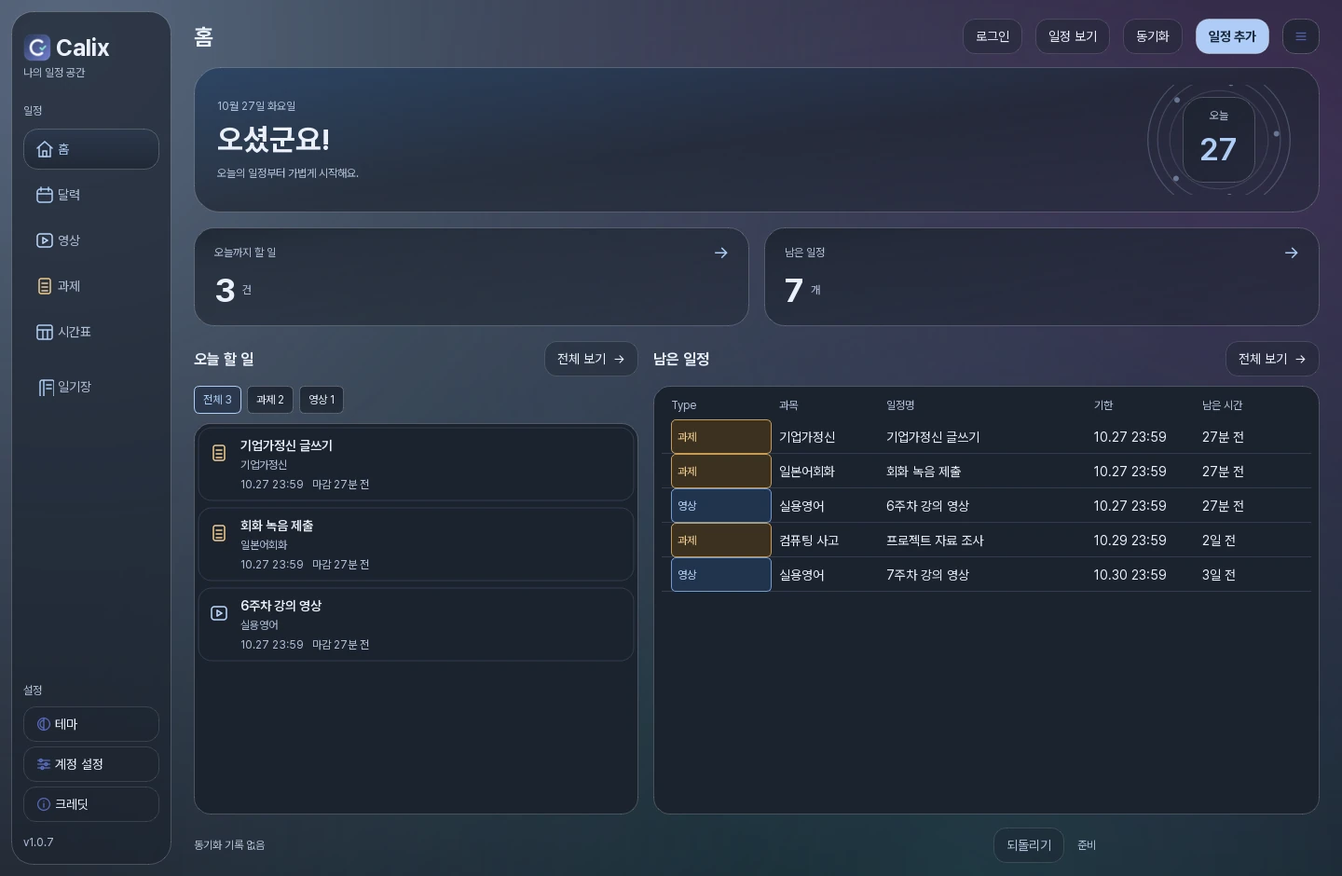
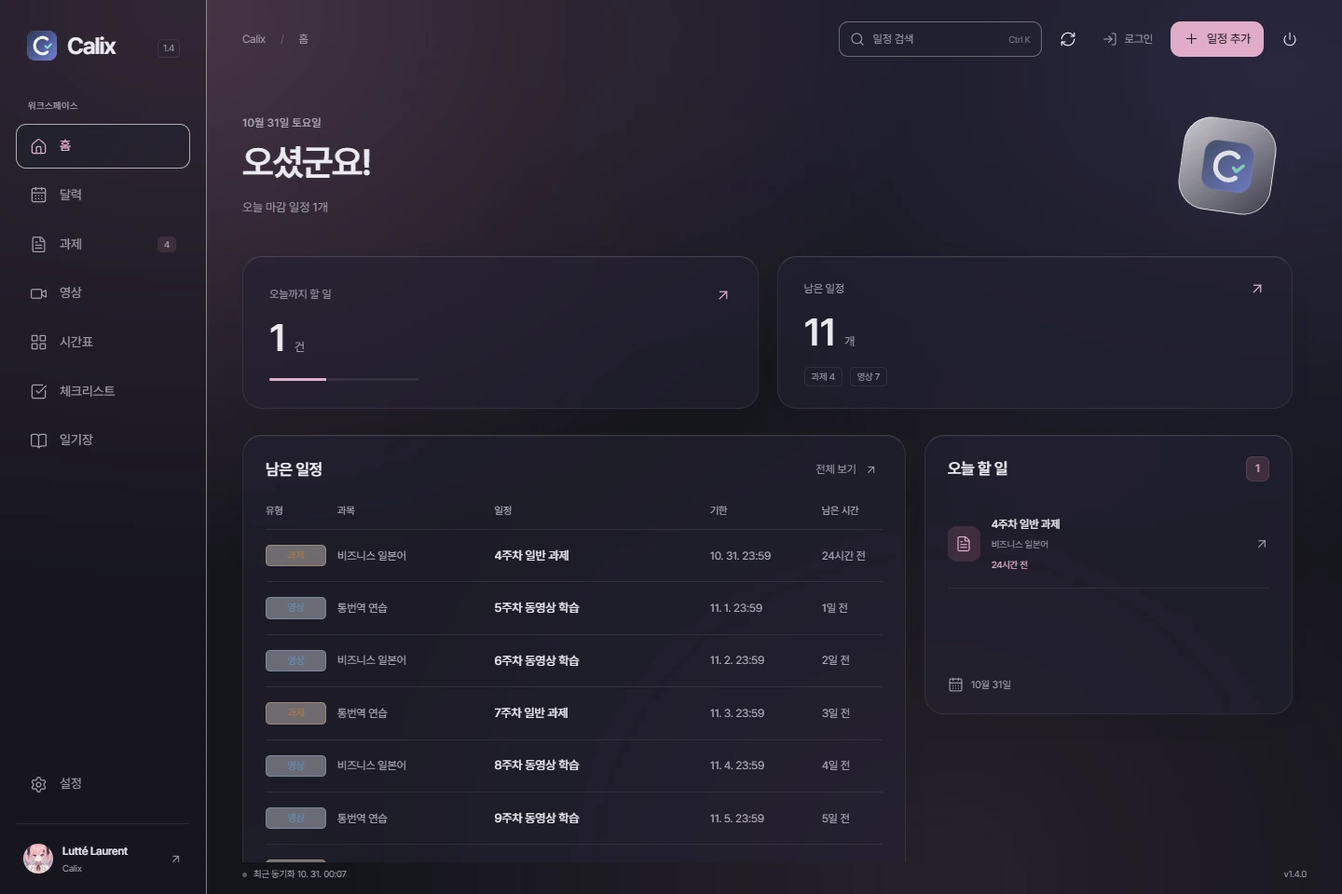
Update Calix 1.4 product images, downloads and user guide

diff --git a/calix/guide/index.html b/calix/guide/index.html
@@ -1,68 +1,45 @@
 <!doctype html>
 <html lang="ko">
 <head>
-  <meta charset="utf-8">
-  <meta name="viewport" content="width=device-width,initial-scale=1">
-  <meta name="theme-color" content="#fff3f7">
-  <meta name="description" content="Calix 사용 설명서. 실행, 동기화, 일정 편집, 시간표, 일기, 백업 절차.">
+  <meta charset="utf-8"><meta name="viewport" content="width=device-width,initial-scale=1">
+  <meta name="theme-color" content="#fff3f7"><meta name="description" content="Calix 1.4 사용 설명서. 로그인, 일정, 체크리스트, 시간표, 일기, 백업.">
   <link rel="canonical" href="https://luttechan.github.io/calix/guide/">
   <link rel="icon" href="../assets/calix.svg" type="image/svg+xml">
-  <link rel="stylesheet" href="../calix.css">
-  <link rel="stylesheet" href="guide.css">
+  <link rel="stylesheet" href="../calix.css"><link rel="stylesheet" href="guide.css">
   <title>사용 설명서 — Calix</title>
 <link rel="stylesheet" href="../../playlist-nav.css?v=20261030-r2">
 </head>
 <body class="manual">
   <a class="skip" href="#main">본문으로</a>
-  <header class="site-header"><nav class="nav" aria-label="주요 메뉴">
-    <a class="brand" href="../" aria-label="Calix 홈"><img src="../assets/calix.svg" width="29" height="29" alt=""><span>Calix</span></a>
-    <div class="guide-nav"><a href="../">제품 소개</a><a href="./" aria-current="page">사용 설명서</a><a class="nav-download" href="https://github.com/luttechan/Calix/releases/latest">다운로드</a></div>
-  <a class="playlist-nav-link" href="../../playlist.html">♫ Playlist</a></nav></header>
+  <header class="site-header"><nav class="nav" aria-label="주요 메뉴"><a class="brand" href="../"><img src="../assets/calix.svg" width="29" height="29" alt=""><span>Calix</span></a><div class="guide-nav"><a href="../">제품 소개</a><a href="./" aria-current="page">사용 설명서</a><a class="nav-download" href="https://github.com/luttechan/Calix/releases/latest">다운로드</a></div><a class="playlist-nav-link" href="../../playlist.html">♫ Playlist</a></nav></header>
   <div class="manual-layout">
     <aside class="contents"><nav aria-label="설명서 목차"><p>목차</p><a href="#start">01 실행</a><a href="#sync">02 로그인과 동기화</a><a href="#calendar">03 일정</a><a href="#checklist">04 체크리스트</a><a href="#timetable">05 시간표</a><a href="#diary">06 일기</a><a href="#settings">07 설정과 백업</a></nav></aside>
     <main id="main" class="manual-content">
-      <div class="manual-title"><p class="eyebrow">Calix 1.2</p><h1>사용 설명서</h1><p>Windows 10 / 11, 64비트</p></div>
-      <section id="start"><h2><span>01</span> 실행</h2><ol><li>설치 파일을 실행합니다. ZIP은 압축 해제 후 <code>Calix.exe</code>를 실행합니다.</li><li>왼쪽 아래 <strong>종료</strong>를 누릅니다. 미저장 내용이 있으면 저장 여부를 선택합니다.</li></ol></section>
+      <div class="manual-title"><p class="eyebrow">Calix 1.4.0</p><h1>사용 설명서</h1><p>Windows 10 / 11, 64비트</p></div>
+      <section id="start"><h2><span>01</span> 실행</h2><ol><li>Setup을 실행해 설치합니다. ZIP은 압축 해제 후 <code>Calix.exe</code> 또는 <code>run.bat</code>을 실행합니다.</li><li>창의 X 버튼은 트레이로 숨깁니다. 종료하려면 오른쪽 위 전원 버튼 또는 트레이의 <strong>종료</strong>를 선택합니다.</li><li><strong>저장하고 종료</strong>를 누르면 작성 중인 일정과 일기를 저장한 뒤 종료합니다.</li></ol></section>
       <section id="sync"><h2><span>02</span> 로그인과 동기화</h2>
-        <figure><div class="screen-scroll" tabindex="0" aria-label="홈 화면. 좌우 방향키로 화면 이동"><div class="annotated-screen">
-          <img src="../assets/home-pink.webp" width="1440" height="940" alt="Calix 홈 화면의 오른쪽 위에 로그인, 동기화, 메뉴 버튼이 있습니다." decoding="async">
-          <svg class="annotations" viewBox="0 0 1440 940" aria-hidden="true"><defs><marker id="home-arrow" markerWidth="7" markerHeight="7" refX="5" refY="3" orient="auto"><path d="M0 0 6 3 0 6Z"/></marker></defs><path d="M1065 103V65" marker-end="url(#home-arrow)"/><path d="M1237 103V65" marker-end="url(#home-arrow)"/><path d="M1396 103V65" marker-end="url(#home-arrow)"/><g><circle cx="1065" cy="125" r="21"/><text x="1065" y="125">1</text><circle cx="1237" cy="125" r="21"/><text x="1237" y="125">2</text><circle cx="1396" cy="125" r="21"/><text x="1396" y="125">3</text></g></svg>
-        </div></div><figcaption>홈 화면</figcaption></figure>
-        <ol class="numbered"><li><strong>로그인</strong>을 누르고 학교 계정으로 로그인합니다.</li><li><strong>동기화</strong>를 눌러 과제와 영상을 불러옵니다.</li><li><strong>메뉴</strong>에서 설정과 백업 항목을 엽니다.</li></ol>
-        <p class="note">로그인 완료 시 버튼이 ‘로그아웃’으로 변경됩니다.</p>
+        <figure><div class="screen-scroll" tabindex="0" aria-label="홈 화면"><div class="annotated-screen"><img src="../assets/home-pink.webp?v=140" width="1440" height="960" alt="Calix 1.4 홈 화면" loading="lazy" decoding="async"></div></div><figcaption>홈</figcaption></figure>
+        <ol><li>오른쪽 위 <strong>로그인</strong>에서 학교 계정으로 로그인하고 <strong>로그인 완료</strong>를 누릅니다.</li><li>오른쪽 위 원형 화살표 <strong>동기화</strong> 버튼으로 과제와 영상을 갱신합니다.</li></ol><p class="note">학교 일정의 제출 상태와 시청 기록은 동기화로 확인합니다.</p>
       </section>
       <section id="calendar"><h2><span>03</span> 일정</h2>
-        <figure><div class="screen-scroll" tabindex="0" aria-label="달력 화면. 좌우 방향키로 화면 이동"><div class="annotated-screen">
-          <img src="../assets/calendar.webp" width="1440" height="940" alt="달력 위의 이전 달과 다음 달 버튼, 날짜 안의 일정 유형, 오른쪽 위 상세 일정 버튼." loading="lazy" decoding="async">
-          <svg class="annotations" viewBox="0 0 1440 940" aria-hidden="true"><defs><marker id="calendar-arrow" markerWidth="7" markerHeight="7" refX="5" refY="3" orient="auto"><path d="M0 0 6 3 0 6Z"/></marker></defs><path d="M351 183 361 165" marker-end="url(#calendar-arrow)"/><path d="M600 703 588 730" marker-end="url(#calendar-arrow)"/><path d="M1314 191 1363 165" marker-end="url(#calendar-arrow)"/><g><circle cx="343" cy="205" r="21"/><text x="343" y="205">1</text><circle cx="608" cy="680" r="21"/><text x="608" y="680">2</text><circle cx="1297" cy="207" r="21"/><text x="1297" y="207">3</text></g></svg>
-        </div></div><figcaption>달력 화면</figcaption></figure>
-        <ol class="numbered"><li><strong>‹ / ›</strong>는 이전 달과 다음 달, <strong>오늘</strong>은 현재 날짜로 이동합니다.</li><li>날짜 안의 <strong>과제 / 영상 / 사용자 유형</strong>을 누르면 상세 창이 열립니다.</li><li><strong>상세 일정</strong>을 누르면 선택한 날짜의 목록이 열립니다.</li></ol>
-        <dl class="procedures"><div><dt>일정 추가</dt><dd><strong>일정 추가</strong> 또는 날짜 두 번 클릭. 이름, 유형, 기한 입력 후 저장.</dd></div><div><dt>이름과 메모 수정</dt><dd>상세 창에서 이름, 유형, 메모 수정 후 <strong>저장</strong>. 여러 건이면 강의, 유형, 일정명으로 선택.</dd></div><div><dt>학교 원본 확인</dt><dd>상세 창의 <strong>원본 열기</strong> 선택.</dd></div><div><dt>사용자 유형 등록</dt><dd>메뉴 → 설정 → 일정 유형. 이름과 색상 지정.</dd></div></dl>
-        <p class="note">학교 일정의 이름, 유형, 메모 수정값은 동기화 후에도 유지됩니다.</p>
+        <figure><div class="screen-scroll" tabindex="0" aria-label="달력 화면"><div class="annotated-screen"><img src="../assets/calendar.webp?v=140" width="1440" height="960" alt="Calix 1.4 달력 화면" loading="lazy" decoding="async"></div></div><figcaption>달력</figcaption></figure>
+        <dl class="procedures"><div><dt>상세 확인</dt><dd>날짜 안의 일정 또는 하단 목록을 한 번 클릭합니다. <strong>+N개</strong>는 해당 날짜의 전체 목록을 표시합니다.</dd></div><div><dt>일정 추가</dt><dd><strong>일정 추가</strong> 또는 날짜 숫자를 누릅니다. 이름, 유형, 과목, 기한, 메모를 입력합니다.</dd></div><div><dt>이름과 메모 수정</dt><dd>상세 창에서 편집 후 <strong>저장</strong>을 누릅니다. 학교 일정의 수정값은 동기화 후에도 유지됩니다.</dd></div><div><dt>학교 원본</dt><dd>상세 창의 <strong>원본 열기</strong>를 누릅니다.</dd></div><div><dt>일정 검색</dt><dd>상단 검색란 또는 <kbd>Ctrl K</kbd>를 사용합니다.</dd></div></dl>
+        <p class="note">완료한 일정은 흐리게 표시됩니다. 기한이 지난 미제출 과제는 ‘미완료’로 표시됩니다.</p>
       </section>
       <section id="checklist"><h2><span>04</span> 체크리스트</h2>
-        <ol class="numbered"><li><strong>과제 불러오기 / 영상 불러오기</strong>를 체크하면 기존 수집 자료를 표시합니다.</li><li>셀을 클릭해 이름, 기한, 분류, 역할, 교수, 상태, 비고를 편집합니다. 기한은 직접 입력하거나 달력에서 선택합니다. 분류, 역할, 교수는 목록 검색 또는 직접 입력을 지원합니다. 할 일 왼쪽 체크박스로 완료 처리합니다.</li><li>열 제목을 눌러 오름차순 / 내림차순으로 정렬합니다.</li><li><strong>+ 섹션</strong>으로 이름을 지정합니다. 기본 섹션 포함 최대 5개입니다.</li><li><strong>상태 편집</strong>에서 상태 이름과 색상을 변경하거나 추가합니다.</li></ol>
-        <p>목록 선택은 클릭 또는 방향키와 Enter. 직접 입력 후 Enter로 저장합니다. 취소는 Esc.</p>
-        <p class="note">체크리스트 진행 상태는 학교의 제출 상태 및 시청 기록과 별도로 저장됩니다. 삭제한 항목은 휴지통에서 복원할 수 있습니다.</p>
+        <figure><div class="screen-scroll" tabindex="0" aria-label="체크리스트 화면"><div class="annotated-screen"><img src="../assets/checklist.webp?v=140" width="1440" height="960" alt="Calix 1.4 체크리스트 화면" loading="lazy" decoding="async"></div></div><figcaption>체크리스트</figcaption></figure>
+        <ol><li>달력의 상세 창에서 <strong>체크리스트에 추가</strong>를 누릅니다. 여러 건은 체크리스트의 <strong>일괄 가져오기</strong>에서 선택합니다.</li><li><strong>할 일 추가</strong>로 개인 할 일을 만듭니다. 각 셀에서 기한, 분류, 역할, 교수, 상태, 비고를 편집합니다.</li><li>열 제목을 눌러 정렬합니다. <strong>섹션 추가</strong>는 기본 섹션을 포함해 최대 5개입니다.</li><li><strong>상태 편집</strong>에서 이름과 색상을 지정합니다. 행 오른쪽 삭제 버튼은 확인 후 해당 할 일을 삭제합니다.</li></ol><p class="note">체크리스트의 완료 표시는 학교의 제출 상태 및 시청 기록과 별도입니다.</p>
       </section>
       <section id="timetable"><h2><span>05</span> 시간표</h2>
-        <figure><div class="screen-scroll" tabindex="0" aria-label="시간표 화면. 좌우 방향키로 화면 이동"><div class="annotated-screen">
-          <img src="../assets/timetable.webp" width="1440" height="940" alt="시간표 오른쪽 위의 수업 추가 버튼과 오른쪽 수업 색상 설정." loading="lazy" decoding="async">
-          <svg class="annotations" viewBox="0 0 1440 940" aria-hidden="true"><defs><marker id="timetable-arrow" markerWidth="7" markerHeight="7" refX="5" refY="3" orient="auto"><path d="M0 0 6 3 0 6Z"/></marker></defs><path d="M1377 154V118" marker-end="url(#timetable-arrow)"/><path d="M1250 538V477" marker-end="url(#timetable-arrow)"/><g><circle cx="1377" cy="177" r="21"/><text x="1377" y="177">1</text><circle cx="1250" cy="560" r="21"/><text x="1250" y="560">2</text></g></svg>
-        </div></div><figcaption>시간표 화면</figcaption></figure>
-        <ol class="numbered"><li><strong>수업 추가</strong>에서 과목, 요일, 시간, 교수, 강의실을 입력합니다.</li><li>수업을 선택한 뒤 오른쪽 <strong>수업 색상</strong>을 지정합니다.</li><li><strong>공강 설정</strong>에서 요일을 선택합니다. 해제하면 기존 수업을 다시 표시합니다.</li></ol>
-        <p>수업을 끌어 시간을 이동합니다. 세부 정보는 수업 선택 후 <strong>수정</strong>에서 변경합니다.</p>
+        <figure><div class="screen-scroll" tabindex="0" aria-label="시간표 화면"><div class="annotated-screen"><img src="../assets/timetable.webp?v=140" width="1440" height="960" alt="Calix 1.4 시간표 화면" loading="lazy" decoding="async"></div></div><figcaption>시간표</figcaption></figure>
+        <ol><li><strong>수업 추가</strong>에서 과목, 요일, 시간, 교수, 강의실, 색상을 지정합니다.</li><li>수업을 한 번 클릭해 수정합니다. <strong>공강 설정</strong>에서 요일을 선택하면 해당 열이 공강으로 표시됩니다.</li></ol><p>공강을 해제하면 기존 수업이 다시 표시됩니다. 각 수업에는 남은 과제와 영상 수가 표시됩니다.</p>
       </section>
       <section id="diary"><h2><span>06</span> 일기</h2>
-        <figure><div class="screen-scroll" tabindex="0" aria-label="일기장 화면. 좌우 방향키로 화면 이동"><div class="annotated-screen">
-          <img src="../assets/diary.webp" width="1440" height="940" alt="일기장의 일반 일기와 비밀 일기 선택, 일기 쓰기 버튼, 본문 위 서식 도구." loading="lazy" decoding="async">
-          <svg class="annotations" viewBox="0 0 1440 940" aria-hidden="true"><defs><marker id="diary-arrow" markerWidth="7" markerHeight="7" refX="5" refY="3" orient="auto"><path d="M0 0 6 3 0 6Z"/></marker></defs><path d="M576 90H385" marker-end="url(#diary-arrow)"/><path d="M1377 144V118" marker-end="url(#diary-arrow)"/><path d="M1076 265H806" marker-end="url(#diary-arrow)"/><g><circle cx="600" cy="90" r="21"/><text x="600" y="90">1</text><circle cx="1377" cy="166" r="21"/><text x="1377" y="166">2</text><circle cx="1100" cy="265" r="21"/><text x="1100" y="265">3</text></g></svg>
-        </div></div><figcaption>일기장 화면</figcaption></figure>
-        <ol class="numbered"><li><strong>일반 일기</strong> 또는 <strong>비밀 일기</strong>를 선택합니다.</li><li><strong>일기 쓰기</strong>에서 제목과 내용을 입력합니다. 내용은 자동 저장됩니다.</li><li>글자를 선택한 뒤 <strong>B / I / U / S / 글자색</strong>으로 서식을 지정합니다.</li></ol>
-        <p class="note">비밀 일기 암호는 12자 이상입니다. 암호 분실 시 복구할 수 없습니다. 일반 일기는 암호화되지 않습니다.</p>
+        <figure><div class="screen-scroll" tabindex="0" aria-label="일기장 화면"><div class="annotated-screen"><img src="../assets/diary.webp?v=140" width="1440" height="960" alt="Calix 1.4 일기장 화면" loading="lazy" decoding="async"></div></div><figcaption>일기장</figcaption></figure>
+        <ol><li><strong>일반 일기</strong> 또는 <strong>비밀 일기</strong>에서 <strong>새 일기</strong>를 누릅니다.</li><li>제목과 본문을 입력합니다. 글자 선택 후 굵게, 기울임, 밑줄, 색상을 지정합니다.</li><li><strong>저장</strong>을 누릅니다. 다른 메뉴로 이동하거나 저장하고 종료할 때도 작성 내용을 저장합니다.</li></ol><p class="note">비밀 일기 암호는 12자 이상입니다. 암호 분실 시 복구할 수 없습니다. 일반 일기는 암호화되지 않습니다.</p>
       </section>
-      <section id="settings"><h2><span>07</span> 설정과 백업</h2><dl class="procedures"><div><dt>업데이트</dt><dd>메뉴 → 도움말 → 업데이트 확인 → 다운로드 → 설치하고 종료.</dd></div><div><dt>테마</dt><dd>왼쪽 아래 <strong>테마</strong>에서 테마와 글꼴 선택.</dd></div><div><dt>공휴일</dt><dd>메뉴 → 설정 → 공휴일. 표시 여부 변경 또는 임시공휴일 추가.</dd></div><div><dt>특수 일정</dt><dd>메뉴 → 설정 → 기타 → 특수 일정 등록.</dd></div><div><dt>저장 계정 삭제</dt><dd>메뉴 → 설정 → 저장 계정 삭제.</dd></div><div><dt>자료 백업과 복원</dt><dd>메뉴 → 파일 → 개인 자료 백업 / 백업 복원.</dd></div></dl><p class="note">백업에는 체크리스트, 공강 설정, 일반 일기와 암호화된 비밀 일기가 포함됩니다. 로그인 암호와 쿠키는 포함되지 않습니다.</p></section>
-      <p class="manual-meta">기준 버전 1.2 revision 4 / 화면의 일정은 예시입니다.</p>
+      <section id="settings"><h2><span>07</span> 설정과 백업</h2><dl class="procedures"><div><dt>테마와 글꼴</dt><dd><strong>설정 → 화면</strong>에서 테마, 글래스, 글꼴을 선택합니다.</dd></div><div><dt>유형과 공휴일</dt><dd><strong>설정 → 일정</strong>에서 사용자 유형과 공휴일을 등록합니다.</dd></div><div><dt>특수 일정</dt><dd><strong>설정 → 일정 → 특수 일정 등록</strong>에서 가톨릭 일정 또는 ???를 선택합니다.</dd></div><div><dt>업데이트</dt><dd><strong>설정 → 앱 관리 → 업데이트 확인</strong>에서 다운로드 후 설치하고 종료합니다.</dd></div><div><dt>백업과 복원</dt><dd><strong>설정 → 앱 관리</strong>에서 개인 자료 백업 또는 백업 복원을 선택합니다. 복원 전 현재 자료의 복구용 백업을 자동 생성합니다.</dd></div></dl><p class="note">백업에는 체크리스트, 시간표, 일반 일기와 암호화된 비밀 일기가 포함됩니다. 로그인 쿠키는 포함되지 않습니다.</p></section>
+      <p class="manual-meta">기준 버전 1.4.0 / 화면의 일정은 예시입니다.</p>
     </main>
   </div>
   <footer><div class="footer-main"><a class="brand" href="../">Calix</a><div><a href="https://github.com/luttechan/Calix">GitHub</a><a href="../../">Lutté Laurent</a></div></div></footer>

diff --git a/calix/index.html b/calix/index.html
@@ -9,7 +9,7 @@
   <meta property="og:description" content="The Smart Way to Ghost Your Absences.">
   <meta property="og:type" content="website">
   <meta property="og:url" content="https://luttechan.github.io/calix/">
-  <meta property="og:image" content="https://luttechan.github.io/calix/assets/home-pink.webp">
+  <meta property="og:image" content="https://luttechan.github.io/calix/assets/home-pink.webp?v=140">
   <link rel="canonical" href="https://luttechan.github.io/calix/">
   <link rel="icon" type="image/svg+xml" href="assets/calix.svg">
   <link rel="stylesheet" href="calix.css">
@@ -33,25 +33,25 @@
         <p class="eyebrow">부산외대 Canvas 연동</p>
         <h1 id="hero-title">Calix<span>.</span></h1>
         <p class="hero-description">과제와 영상을 한눈에.</p>
-        <a class="button button-dark" data-download href="https://github.com/luttechan/Calix/releases/download/v1.2.0-r4/Calix-1.2.0-r4-Setup-x64.exe"><svg viewBox="0 0 20 20" aria-hidden="true"><path d="M10 2v11m-4-4 4 4 4-4M3 14v3h14v-3"></path></svg>Windows용 다운로드</a>
-        <p class="platform">Windows 10 / 11 <span aria-hidden="true">／</span> v1.2.0-r4</p>
+        <a class="button button-dark" data-download href="https://github.com/luttechan/Calix/releases/download/v1.4.0/Calix-1.4.0-Setup-x64.exe"><svg viewBox="0 0 20 20" aria-hidden="true"><path d="M10 2v11m-4-4 4 4 4-4M3 14v3h14v-3"></path></svg>Windows용 다운로드</a>
+        <p class="platform">Windows 10 / 11 <span aria-hidden="true">／</span> v1.4.0</p>
         <p class="visually-hidden">The Smart Way to Ghost Your Absences.</p>
       </div>
       <div class="hero-product" data-parallax>
-        <div class="product-frame"><img src="assets/home-pink.webp" alt="Calix 홈 화면. 오늘 할 일과 남은 일정을 함께 확인합니다." width="1440" height="940" fetchpriority="high" decoding="async"></div>
+        <div class="product-frame"><img src="assets/home-pink.webp?v=140" alt="Calix 홈 화면. 오늘 할 일과 남은 일정을 함께 확인합니다." width="1440" height="960" fetchpriority="high" decoding="async"></div>
       </div>
       <div class="hero-bottom"><a href="#calendar" aria-label="일정 기능 살펴보기"><svg viewBox="0 0 24 24" aria-hidden="true"><path d="M12 4v16m-6-6 6 6 6-6"></path></svg></a></div>
     </section>
 
     <section class="calendar-section section" id="calendar" aria-labelledby="calendar-title">
       <div class="section-heading reveal"><p class="eyebrow">일정</p><h2 id="calendar-title">다가오는 마감부터.</h2><p>Canvas와 동기화.<br>내 일정은 원하는 이름과 색으로.</p></div>
-      <div class="calendar-stage reveal"><div class="stage-orbit" aria-hidden="true"></div><div class="product-frame"><img src="assets/calendar.webp" alt="유형별 색상과 공휴일이 표시된 Calix 달력 예시" width="1440" height="940" loading="lazy" decoding="async"></div></div>
+      <div class="calendar-stage reveal"><div class="stage-orbit" aria-hidden="true"></div><div class="product-frame"><img src="assets/calendar.webp?v=140" alt="유형별 색상과 공휴일이 표시된 Calix 달력 예시" width="1440" height="960" loading="lazy" decoding="async"></div></div>
       <div class="feature-line reveal"><span><i class="type-chip assignment"></i>과제</span><span><i class="type-chip movie"></i>영상</span><span><i class="type-chip custom"></i>직접 만든 유형</span><span class="feature-note">이름과 메모는 동기화 후에도 그대로.</span></div>
     </section>
 
     <section class="timetable-section section" aria-labelledby="timetable-title">
       <div class="timetable-copy reveal"><p class="eyebrow">시간표</p><h2 id="timetable-title">이번 주를<br> 한눈에.</h2><p>강의실, 교수님,<br> 남은 과제와 영상까지.</p></div>
-      <div class="timetable-image reveal"><div class="product-frame"><img src="assets/timetable.webp" alt="수업별 색상과 강의실, 남은 과제가 표시된 시간표 예시" width="1440" height="940" loading="lazy" decoding="async"></div></div>
+      <div class="timetable-image reveal"><div class="product-frame"><img src="assets/timetable.webp?v=140" alt="수업별 색상과 강의실, 남은 과제가 표시된 시간표 예시" width="1440" height="960" loading="lazy" decoding="async"></div></div>
     </section>
 
     <section class="theme-section section" id="themes" aria-labelledby="theme-title">
@@ -63,21 +63,24 @@
         <button type="button" data-theme="purple" class="swatch" aria-pressed="false"><i style="--swatch:#c0a9e3"></i><span>퍼플</span></button>
         <button type="button" data-theme="dark" class="swatch" aria-pressed="false"><i style="--swatch:#3d3b4a"></i><span>다크</span></button>
       </div>
-      <div class="theme-stage reveal" data-active-theme="pink"><div class="theme-aura" aria-hidden="true"></div><div class="product-frame"><img id="theme-preview" src="assets/home-pink.webp" alt="Calix 핑크 테마" width="1440" height="940" loading="lazy" decoding="async"></div></div>
+      <div class="theme-stage reveal" data-active-theme="pink"><div class="theme-aura" aria-hidden="true"></div><div class="product-frame"><img id="theme-preview" src="assets/home-pink.webp?v=140" alt="Calix 핑크 테마" width="1440" height="960" loading="lazy" decoding="async"></div></div>
       <p class="theme-status visually-hidden" aria-live="polite"></p>
     </section>
 
     <section class="diary-section section" aria-labelledby="diary-title">
-      <div class="diary-image reveal"><div class="product-frame"><img src="assets/diary.webp" alt="글자 서식을 지정할 수 있는 Calix 일반 일기 예시" width="1440" height="940" loading="lazy" decoding="async"></div></div>
+      <div class="diary-image reveal"><div class="product-frame"><img src="assets/diary.webp?v=140" alt="글자 서식을 지정할 수 있는 Calix 일반 일기 예시" width="1440" height="960" loading="lazy" decoding="async"></div></div>
       <div class="diary-copy reveal"><p class="eyebrow">일기</p><h2 id="diary-title">일반 일기와<br>비밀 일기.</h2><p>굵게, 기울임, 글자색.<br>비밀 일기는 암호로 보호.</p><p class="small-note">암호를 잊으면 복구할 수 없습니다.</p></div>
     </section>
+
+    <section class="section" aria-labelledby="startup-title"><div class="section-heading reveal"><p class="eyebrow">Calix 1.4</p><h2 id="startup-title">새로운 시작.</h2></div><div class="product-frame reveal"><img src="assets/startup.webp?v=140" alt="Calix 필기체 시작 화면" width="1200" height="800" loading="lazy" decoding="async"></div></section>
 
     <section class="download-section" id="download" aria-labelledby="download-title">
       <div class="download-glow" aria-hidden="true"></div>
       <img src="assets/calix.svg" class="download-icon reveal" width="94" height="94" alt="">
-      <div class="reveal"><h2 id="download-title">Calix 다운로드.</h2><p>과제, 영상, 일정을 한곳에.</p><a class="button button-dark" data-download href="https://github.com/luttechan/Calix/releases/download/v1.2.0-r4/Calix-1.2.0-r4-Setup-x64.exe"><svg viewBox="0 0 20 20" aria-hidden="true"><path d="M10 2v11m-4-4 4 4 4-4M3 14v3h14v-3"></path></svg>Windows용 다운로드</a><p class="platform">Windows 10 / 11, 64비트 <span aria-hidden="true">／</span> v1.2.0-r4</p><a class="release-link" href="https://github.com/luttechan/Calix/releases">업데이트 내역 <span aria-hidden="true">↗</span></a></div>
+      <div class="reveal"><h2 id="download-title">Calix 다운로드.</h2><p>과제, 영상, 일정을 한곳에.</p><a class="button button-dark" data-download href="https://github.com/luttechan/Calix/releases/download/v1.4.0/Calix-1.4.0-Setup-x64.exe"><svg viewBox="0 0 20 20" aria-hidden="true"><path d="M10 2v11m-4-4 4 4 4-4M3 14v3h14v-3"></path></svg>Windows용 다운로드</a><p class="platform">Windows 10 / 11, 64비트 <span aria-hidden="true">／</span> v1.4.0</p><a class="release-link" href="https://github.com/luttechan/Calix/releases">업데이트 내역 <span aria-hidden="true">↗</span></a></div>
     </section>
   </main>
   <footer><div class="footer-main"><a class="brand" href="./">Calix</a><div><a href="guide/">사용 설명서</a><a href="https://github.com/luttechan/Calix">GitHub</a><a href="../">Lutté Laurent</a></div></div><div class="footer-fine"><span>© 2026 Lutté Laurent</span><span>화면의 일정은 예시입니다.</span></div></footer>
 </body>
 </html>
+

diff --git a/calix/calix.js b/calix/calix.js
@@ -13,7 +13,7 @@ const preview=document.querySelector('#theme-preview');
 const themeLabels={pink:'핑크',sky:'스카이블루',mint:'민트',purple:'퍼플',dark:'다크'};
 document.querySelectorAll('[data-theme]').forEach(button=>button.addEventListener('click',async()=>{
   const theme=button.dataset.theme;const request=++themeRequest;
-  const image=new Image();image.src=`assets/home-${theme}.webp`;
+  const image=new Image();image.src=`assets/home-${theme}.webp?v=140`;
   try{await image.decode();}catch{return;}
   if(request!==themeRequest)return;
   document.querySelectorAll('[data-theme]').forEach(item=>{const active=item===button;item.classList.toggle('active',active);item.setAttribute('aria-pressed',String(active));});
@@ -21,3 +21,4 @@ document.querySelectorAll('[data-theme]').forEach(button=>button.addEventListene
   document.querySelector('.theme-stage').dataset.activeTheme=theme;
   document.querySelector('.theme-status').textContent=`${themeLabels[theme]} 테마`;
 }));
+
